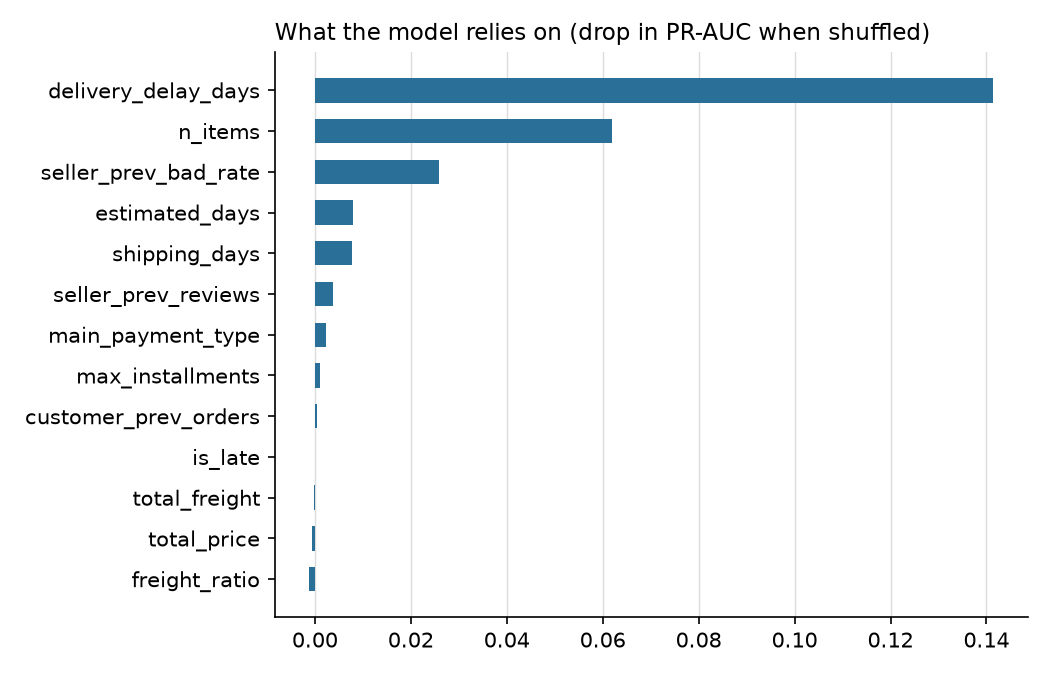
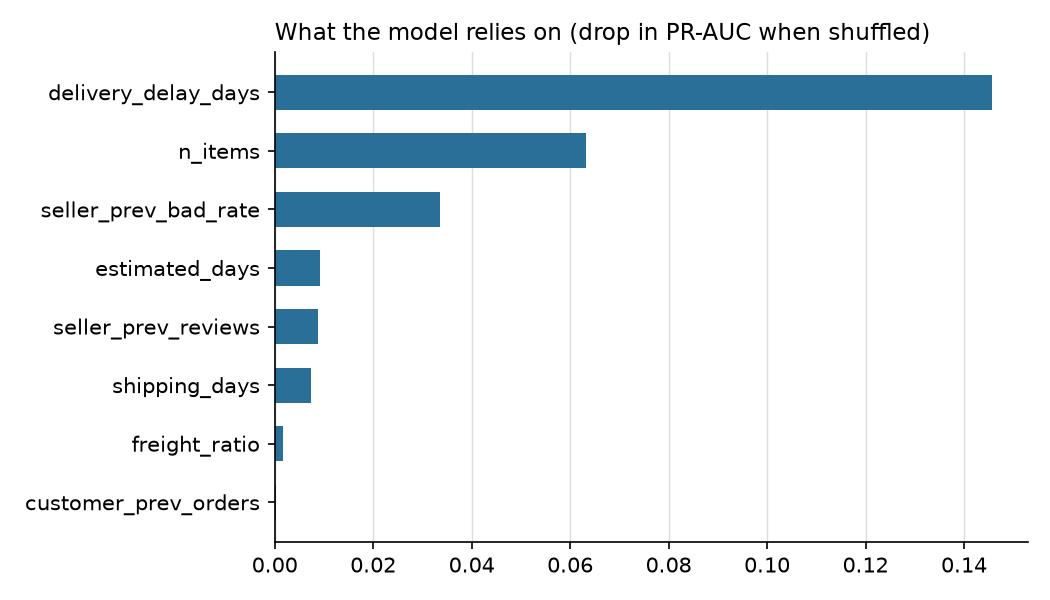
drop unused features, flag top 10% instead of tuned threshold

diff --git a/src/train.py b/src/train.py
@@ -6,45 +6,20 @@ import joblib
 import matplotlib.pyplot as plt
 import numpy as np
 import pandas as pd
-from sklearn.compose import ColumnTransformer
 from sklearn.ensemble import HistGradientBoostingClassifier
 from sklearn.impute import SimpleImputer
 from sklearn.inspection import permutation_importance
 from sklearn.linear_model import LogisticRegression
-from sklearn.metrics import (average_precision_score, confusion_matrix,
-                             precision_recall_curve, roc_auc_score, roc_curve)
-from sklearn.pipeline import Pipeline, make_pipeline
-from sklearn.preprocessing import OneHotEncoder, OrdinalEncoder, StandardScaler
+from sklearn.metrics import average_precision_score, confusion_matrix, roc_auc_score, roc_curve
+from sklearn.pipeline import make_pipeline
+from sklearn.preprocessing import StandardScaler
 
-from src.config import DB_PATH, ROOT
+from src.config import DB_PATH, MODEL_PATH, ROOT
 
-NUM = ["estimated_days", "shipping_days", "delivery_delay_days", "is_late", "n_items",
-       "total_price", "total_freight", "freight_ratio", "max_installments",
-       "customer_prev_orders", "seller_prev_reviews", "seller_prev_bad_rate"]
-CAT = ["main_payment_type"]
+FEATURES = ["estimated_days", "shipping_days", "delivery_delay_days", "n_items", "freight_ratio",
+            "customer_prev_orders", "seller_prev_reviews", "seller_prev_bad_rate"]
 TARGET = "bad_review"
-PRECISION_TARGET = 0.5  # business rule for the threshold, see pick_threshold()
-
-
-def make_logreg():
-    pre = ColumnTransformer([
-        # median-fill gaps; add_indicator adds a "was missing" column (e.g. seller with no history)
-        ("num", make_pipeline(SimpleImputer(strategy="median", add_indicator=True), StandardScaler()), NUM),
-        ("cat", make_pipeline(SimpleImputer(strategy="most_frequent"),
-                              OneHotEncoder(handle_unknown="ignore")), CAT),
-    ])
-    return Pipeline([("prep", pre), ("clf", LogisticRegression(max_iter=1000))])
-
-
-def make_hgb():
-    pre = ColumnTransformer([
-        ("num", "passthrough", NUM),  # HistGradientBoosting handles NaN natively
-        ("cat", OrdinalEncoder(handle_unknown="use_encoded_value", unknown_value=np.nan), CAT),
-    ])
-    clf = HistGradientBoostingClassifier(
-        learning_rate=0.05, max_iter=200, max_leaf_nodes=15, l2_regularization=1.0,
-        categorical_features=[False] * len(NUM) + [True], random_state=42)
-    return Pipeline([("prep", pre), ("clf", clf)])
+FLAG_SHARE = 0.10  # support can contact about 10% of delivered orders
 
 
 def ks_stat(y, p):
@@ -57,59 +32,52 @@ def scores(y, p):
     return {"roc_auc": roc_auc_score(y, p), "pr_auc": average_precision_score(y, p), "ks": ks_stat(y, p)}
 
 
-def pick_threshold(y, p, precision_target=PRECISION_TARGET):
-    """Lowest threshold (= highest recall) whose precision is still >= the target."""
-    precision, _, thresholds = precision_recall_curve(y, p)
-    ok = precision[:-1] >= precision_target
-    return float(thresholds[ok].min()) if ok.any() else 0.5
-
-
 def main():
     df = duckdb.connect(str(DB_PATH), read_only=True).execute("SELECT * FROM features").df()
-    df[NUM] = df[NUM].astype("float64")  # DuckDB gives nullable Int64 (pd.NA); sklearn wants plain NaN
+    df[FEATURES] = df[FEATURES].astype("float64")  # DuckDB gives nullable Int64 (pd.NA); sklearn wants NaN
 
     # --- time-based split: train on the past, test on the future ---------------------
     cut = df["purchase_at"].quantile(0.8)
     train, test = df[df["purchase_at"] <= cut], df[df["purchase_at"] > cut]
     print(f"train: {len(train):,} orders up to {cut:%Y-%m-%d}, bad rate {train[TARGET].mean():.3f}")
     print(f"test : {len(test):,} orders after that,    bad rate {test[TARGET].mean():.3f}")
-    X_tr, y_tr, X_te, y_te = train[NUM + CAT], train[TARGET], test[NUM + CAT], test[TARGET]
+    X_tr, y_tr, X_te, y_te = train[FEATURES], train[TARGET], test[FEATURES], test[TARGET]
 
     # --- models -----------------------------------------------------------------------
-    logreg = make_logreg().fit(X_tr, y_tr)
-    hgb = make_hgb().fit(X_tr, y_tr)
+    # logistic regression needs complete, scaled numbers; add_indicator marks "was missing"
+    logreg = make_pipeline(SimpleImputer(strategy="median", add_indicator=True), StandardScaler(),
+                           LogisticRegression(max_iter=1000)).fit(X_tr, y_tr)
+    # gradient boosting handles missing values (NaN) by itself
+    hgb = HistGradientBoostingClassifier(learning_rate=0.05, max_iter=200, max_leaf_nodes=15,
+                                         l2_regularization=1.0, random_state=42).fit(X_tr, y_tr)
     p_log = logreg.predict_proba(X_te)[:, 1]
     p_hgb = hgb.predict_proba(X_te)[:, 1]
 
     results = pd.DataFrame({
-        "rule: is_late": scores(y_te, test["is_late"]),
+        "rule: delivered late": scores(y_te, (test["delivery_delay_days"] > 0).astype(int)),
         "logistic regression": scores(y_te, p_log),
         "hist gradient boosting": scores(y_te, p_hgb),
     }).T
     print("\nTEST metrics\n", results.round(3).to_string())
 
-    # --- threshold: chosen on a validation slice of the TRAIN period, never on test ---
-    inner_cut = train["purchase_at"].quantile(0.75)
-    fit, val = train[train["purchase_at"] <= inner_cut], train[train["purchase_at"] > inner_cut]
-    p_val = make_hgb().fit(fit[NUM + CAT], fit[TARGET]).predict_proba(val[NUM + CAT])[:, 1]
-    thr = pick_threshold(val[TARGET], p_val)
-    print(f"\nthreshold {thr:.3f} (max recall on validation with precision >= {PRECISION_TARGET})")
-
+    # --- threshold: flag the top 10% highest scores (a capacity rule, uses no labels) --
+    thr = float(np.quantile(p_hgb, 1 - FLAG_SHARE))
     pred = (p_hgb >= thr).astype(int)
     tn, fp, fn, tp = confusion_matrix(y_te, pred).ravel()
     cm = pd.DataFrame([[tn, fp], [fn, tp]], index=["actual good", "actual bad"],
                       columns=["flagged: no", "flagged: yes"])
     precision, recall = tp / (tp + fp), tp / (tp + fn)
-    print("\nconfusion matrix on TEST at that threshold\n", cm.to_string())
+    print(f"\nthreshold {thr:.3f} = score of the top {FLAG_SHARE:.0%} of test orders")
+    print("confusion matrix on TEST\n", cm.to_string())
     print(f"flagged {pred.mean():.1%} of orders | precision {precision:.2f} | recall {recall:.2f}")
 
     # --- permutation importance on test: how much does shuffling a column hurt PR-AUC? ---
     imp = permutation_importance(hgb, X_te, y_te, scoring="average_precision",
                                  n_repeats=5, random_state=42, n_jobs=-1)
-    imp = pd.Series(imp.importances_mean, index=NUM + CAT).sort_values()
+    imp = pd.Series(imp.importances_mean, index=FEATURES).sort_values()
     print("\npermutation importance (drop in PR-AUC)\n", imp.iloc[::-1].round(4).to_string())
 
-    fig, ax = plt.subplots(figsize=(7, 4.5))
+    fig, ax = plt.subplots(figsize=(7, 4))
     ax.barh(imp.index, imp.values, color="#2a6f97", height=0.6)
     ax.set_title("What the model relies on (drop in PR-AUC when shuffled)", loc="left", fontsize=11)
     ax.grid(axis="x", color="#dddddd", lw=0.7)
@@ -119,10 +87,10 @@ def main():
     fig.tight_layout()
     fig.savefig(ROOT / "reports" / "permutation_importance.png", dpi=150)
 
-    # --- save: model + threshold + column lists, so predict.py needs nothing else -----
-    joblib.dump({"model": hgb, "threshold": thr, "num": NUM, "cat": CAT}, ROOT / "models" / "model.joblib")
-    metrics = {"split_date": str(cut.date()), "threshold": thr, "precision": precision, "recall": recall,
-               "flagged_share": float(pred.mean()), "test": results.to_dict("index")}
+    # --- save the model and threshold so predict.py needs nothing else ----------------
+    joblib.dump({"model": hgb, "threshold": thr, "features": FEATURES}, MODEL_PATH)
+    metrics = {"split_date": str(cut.date()), "flag_share": FLAG_SHARE, "threshold": thr,
+               "precision": precision, "recall": recall, "test": results.to_dict("index")}
     (ROOT / "reports" / "metrics.json").write_text(json.dumps(metrics, indent=2), encoding="utf-8")
     print("\nsaved models/model.joblib, reports/metrics.json, reports/permutation_importance.png")
 

diff --git a/tests/test_predict.py b/tests/test_predict.py
@@ -1,25 +1,27 @@
 import pytest
-from fastapi.testclient import TestClient
 
-from src.api import app
-from src.predict import MODEL_PATH, build_row, score_order
+from src.config import MODEL_PATH
 
-needs_model = pytest.mark.skipif(not MODEL_PATH.exists(), reason="run `python -m src.train` first")
+if not MODEL_PATH.exists():
+    pytest.skip("run `python -m src.train` first", allow_module_level=True)
+
+from fastapi.testclient import TestClient  # noqa: E402
+
+from src.api import app  # noqa: E402
+from src.predict import build_row, score_order  # noqa: E402
 
 ORDER = {"estimated_days": 25.0, "shipping_days": 10.0, "delivery_delay_days": -15.0,
-         "n_items": 1, "total_price": 100.0, "total_freight": 20.0,
-         "max_installments": 1, "customer_prev_orders": 0, "seller_prev_reviews": 50,
-         "seller_prev_bad_rate": 0.1, "main_payment_type": "credit_card"}
+         "n_items": 1, "freight_ratio": 0.2, "customer_prev_orders": 0,
+         "seller_prev_reviews": 50, "seller_prev_bad_rate": 0.1}
 
 
-@needs_model
-def test_build_row_derives_features():
-    row = build_row(ORDER)
-    assert row.loc[0, "is_late"] == 0  # delay < 0 -> not late
-    assert row.loc[0, "freight_ratio"] == pytest.approx(0.2)
+def test_build_row_keeps_column_order_and_missing_values():
+    row = build_row({"estimated_days": 25.0})  # all other features missing
+    assert row.shape == (1, 8)
+    assert row.loc[0, "estimated_days"] == 25.0
+    assert row["seller_prev_bad_rate"].isna().all()
 
 
-@needs_model
 def test_late_order_is_riskier_than_early_order():
     late = {**ORDER, "shipping_days": 40.0, "delivery_delay_days": 15.0}
     early = score_order(ORDER)["risk_score"]
@@ -27,7 +29,6 @@ def test_late_order_is_riskier_than_early_order():
     assert score_order(late)["risk_score"] > early
 
 
-@needs_model
 def test_score_endpoint():
     client = TestClient(app)
     ok = client.post("/score", json=ORDER)

diff --git a/src/predict.py b/src/predict.py
@@ -1,37 +1,18 @@
 """Score one order with the saved model."""
-from functools import lru_cache
-
 import joblib
-import numpy as np
 import pandas as pd
 
-from src.config import ROOT
+from src.config import MODEL_PATH
 
-MODEL_PATH = ROOT / "models" / "model.joblib"
-
-
-@lru_cache(maxsize=1)
-def load_artifact():
-    # loaded once, then reused for every request
-    return joblib.load(MODEL_PATH)
+artifact = joblib.load(MODEL_PATH)  # {"model", "threshold", "features"}
 
 
 def build_row(order):
-    """Turn a dict of order features into the one-row DataFrame the model expects."""
-    order = dict(order)
-    if order.get("is_late") is None:
-        order["is_late"] = int(order["delivery_delay_days"] > 0)
-    if order.get("freight_ratio") is None and order.get("total_price"):
-        order["freight_ratio"] = order["total_freight"] / order["total_price"]
-    art = load_artifact()
-    cols = art["num"] + art["cat"]
-    row = pd.DataFrame([order]).reindex(columns=cols)  # absent columns become NaN
-    row[art["num"]] = row[art["num"]].astype("float64")
-    return row
+    """One-row DataFrame with the columns in the order the model was trained on."""
+    return pd.DataFrame([order]).reindex(columns=artifact["features"]).astype("float64")
 
 
 def score_order(order):
-    art = load_artifact()
-    p = float(art["model"].predict_proba(build_row(order))[0, 1])
-    return {"risk_score": round(p, 4), "flagged": bool(p >= art["threshold"]),
-            "threshold": round(art["threshold"], 4)}
+    p = float(artifact["model"].predict_proba(build_row(order))[0, 1])
+    return {"risk_score": round(p, 4), "flagged": bool(p >= artifact["threshold"]),
+            "threshold": round(artifact["threshold"], 4)}

diff --git a/src/eda.py b/src/eda.py
@@ -70,26 +70,9 @@ def main():
     fig.tight_layout()
     fig.savefig(REPORTS / "eda_shipping_freight.png", dpi=150)
 
-    # 3) seller track record (only sellers with >= 30 earlier reviews)
-    s = df[df["seller_prev_reviews"] >= 30].copy()
-    s["seller_bucket"] = pd.cut(s["seller_prev_bad_rate"], [-0.001, 0.05, 0.10, 0.15, 0.20, 1.0],
-                                labels=["<=5%", "5-10%", "10-15%", "15-20%", ">20%"])
-    t4 = rate_by(s, "seller_bucket")
-    print("\nbad-review rate by seller's earlier bad-review rate (>=30 earlier reviews)\n",
-          t4.round(3).to_string(index=False))
-
-    fig, ax = plt.subplots(figsize=(7, 4))
-    ax.bar(t4["seller_bucket"].astype(str), t4["rate"], color=BAR, width=0.6)
-    for x, (r, n) in enumerate(zip(t4["rate"], t4["n"])):
-        ax.text(x, r, f"{r:.0%}\nn={n:,}", ha="center", va="bottom", fontsize=8)
-    style(ax, "A seller's past reviews predict this order's review", "seller's earlier bad-review rate", base)
-    ax.set_ylim(0, t4["rate"].max() * 1.25)
-    fig.tight_layout()
-    fig.savefig(REPORTS / "eda_seller.png", dpi=150)
-
     # how much do the features overlap? (late orders are also slow orders)
     print("\ncorrelation with bad_review (Pearson, rough):")
-    cols = ["delivery_delay_days", "shipping_days", "freight_ratio", "total_freight", "total_price", "seller_prev_bad_rate"]
+    cols = ["delivery_delay_days", "shipping_days", "freight_ratio"]
     print(df[cols + ["bad_review"]].corr()["bad_review"].drop("bad_review").round(3).to_string())
     print("\nsaved plots to", REPORTS)
 

diff --git a/src/api.py b/src/api.py
@@ -1,6 +1,6 @@
 """Minimal scoring API. Run: uvicorn src.api:app --reload  (docs at http://127.0.0.1:8000/docs)"""
 from fastapi import FastAPI
-from pydantic import BaseModel, Field
+from pydantic import BaseModel
 
 from src.predict import score_order
 
@@ -9,17 +9,14 @@ app = FastAPI(title="Olist order risk")
 
 class OrderFeatures(BaseModel):
     # known at delivery time; same definitions as sql/features.sql
-    estimated_days: float = Field(description="promised delivery time, days since purchase")
-    shipping_days: float = Field(description="actual delivery time, days since purchase")
-    delivery_delay_days: float = Field(description="actual - promised; > 0 means late")
-    n_items: int = Field(1, ge=1)
-    total_price: float = Field(ge=0)
-    total_freight: float = Field(ge=0)
-    max_installments: float | None = None
-    customer_prev_orders: int = Field(0, ge=0)
-    seller_prev_reviews: int = Field(0, ge=0)
-    seller_prev_bad_rate: float | None = Field(None, ge=0, le=1)  # null = seller has no history
-    main_payment_type: str | None = None
+    estimated_days: float            # promised delivery time, days since purchase
+    shipping_days: float             # actual delivery time, days since purchase
+    delivery_delay_days: float       # actual - promised; > 0 means late
+    n_items: int = 1
+    freight_ratio: float             # freight cost / item price
+    customer_prev_orders: int = 0
+    seller_prev_reviews: int = 0
+    seller_prev_bad_rate: float | None = None  # None = seller has no history
 
 
 @app.get("/health")

diff --git a/src/config.py b/src/config.py
@@ -4,3 +4,4 @@ ROOT = Path(__file__).resolve().parents[1]  # project root (parent of src/)
 RAW_DIR = ROOT / "data" / "raw"
 DB_PATH = ROOT / "data" / "olist.duckdb"
 SQL_DIR = ROOT / "sql"
+MODEL_PATH = ROOT / "models" / "model.joblib"

diff --git a/README.md b/README.md
@@ -9,8 +9,8 @@ Data: [Olist Brazilian E-commerce](https://www.kaggle.com/datasets/olistbr/brazi
 Orders that arrive late, take long to ship or have high freight cost probably get more bad reviews. I tested this and built a model that scores each order when it is delivered.
 
 - Target: `bad_review = 1` if `review_score <= 2` (12.8% of 95,824 orders).
-- Features are built in SQL ([sql/features.sql](sql/features.sql)): delay, shipping time, freight ratio, number of items, payment, the seller's earlier bad-review rate, the customer's earlier orders.
-- The seller feature uses only reviews written before the order was delivered, so it does not leak the future.
+- Eight features, built in SQL ([sql/features.sql](sql/features.sql)): promised delivery time, actual shipping time, delay, number of items, freight ratio, the customer's earlier orders, and the seller's earlier number of reviews and bad-review rate.
+- The seller features use only reviews written before the order was delivered, so they do not leak the future.
 
 ## What I found
 
@@ -26,16 +26,18 @@ I trained on older orders (until 2018-05-27) and tested on newer ones, because t
 
 | Model | ROC-AUC | PR-AUC |
 |---|---|---|
-| Rule: "is late" | 0.571 | 0.139 |
-| Logistic regression | 0.700 | 0.253 |
-| Gradient boosting | 0.715 | 0.316 |
+| Rule: delivered late | 0.571 | 0.139 |
+| Logistic regression | 0.667 | 0.229 |
+| Gradient boosting | 0.713 | 0.318 |
 
-I flag an order if its score is above 0.227. That threshold was picked on validation data so that at least half of the flagged orders are really bad. On the test set it flags 8.3% of orders, with precision 0.38 and recall 0.33.
+Support can contact about 10% of orders, so I flag the 10% with the highest scores (score above 0.198). On the test set this gives precision 0.35 and recall 0.36: of 1,917 flagged orders, 669 really got a bad review. Contacting random orders would hit only 9.7%, so the model is about 3.6 times better.
+
+The most important feature is the delivery delay, then the number of items and the seller's earlier bad-review rate (see `reports/permutation_importance.png`).
 
 ## Limits
 
-- The model is only moderately accurate. Many bad reviews have reasons that are not in the data.
-- Precision was 0.5 on validation but 0.38 on test, because the bad-review rate dropped from 13.6% to 9.7%.
+- The model is only moderately accurate. About 2 of 3 flagged customers would not have left a bad review, and many bad reviews have reasons that are not in the data.
+- The threshold was set from test-period scores. In real use it would be recalculated on recent orders.
 - It scores at delivery time, so it cannot warn earlier.
 - I did not tune the hyperparameters.
 
@@ -58,4 +60,11 @@ pytest
 uvicorn src.api:app --reload
 ```
 
-The API is at http://127.0.0.1:8000/docs. Send an order's features to `POST /score` and get back a risk score and a flag.
+The API is at http://127.0.0.1:8000/docs. Send an order's features to `POST /score` and get back a risk score and a flag. For example, an order delivered 15 days late:
+
+```json
+{"estimated_days": 25, "shipping_days": 40, "delivery_delay_days": 15,
+ "freight_ratio": 0.2, "seller_prev_bad_rate": 0.1}
+```
+
+returns `{"risk_score": 0.7855, "flagged": true, "threshold": 0.1979}`. The same order delivered 15 days early scores 0.05 and is not flagged.

diff --git a/reports/eda_conclusion.md b/reports/eda_conclusion.md
@@ -1,3 +1,3 @@
 # EDA conclusion
 
-The hypothesis is partly confirmed. Delivery delay is the strongest signal: orders delivered 3+ days late get a bad review 61-79% of the time, against 9-11% for orders that arrive early (overall rate 12.8%). The rate jumps sharply between "late 0-3d" (19%) and "late 3-7d" (61%), so a few days of grace barely hurts but a real delay almost always does. Total shipping time also matters, but only in the slowest decile (44% bad reviews vs 7-14% elsewhere), and much of that overlaps with lateness. Freight cost does not support the hypothesis: the bad-review rate is flat (12-14%) across all freight-to-price deciles. A seller's earlier bad-review rate is a useful extra signal (7% for sellers at or below 5%, 22% above 20%). These are associations, not causes; late orders are also slow, so the model in Step 4 has to separate their effects.
+The hypothesis is partly confirmed. Delivery delay is the strongest signal: orders delivered 3+ days late get a bad review 61-79% of the time, against 9-11% for orders that arrive early (overall rate 12.8%). The rate jumps sharply between "late 0-3d" (19%) and "late 3-7d" (61%), so a few days of grace barely hurts but a real delay almost always does. Total shipping time also matters, but only in the slowest decile (44% bad reviews vs 7-14% elsewhere), and much of that overlaps with lateness. Freight cost does not support the hypothesis: the bad-review rate is flat (12-14%) across all freight-to-price deciles. These are associations, not causes; late orders are also slow, so the model has to separate their effects.
